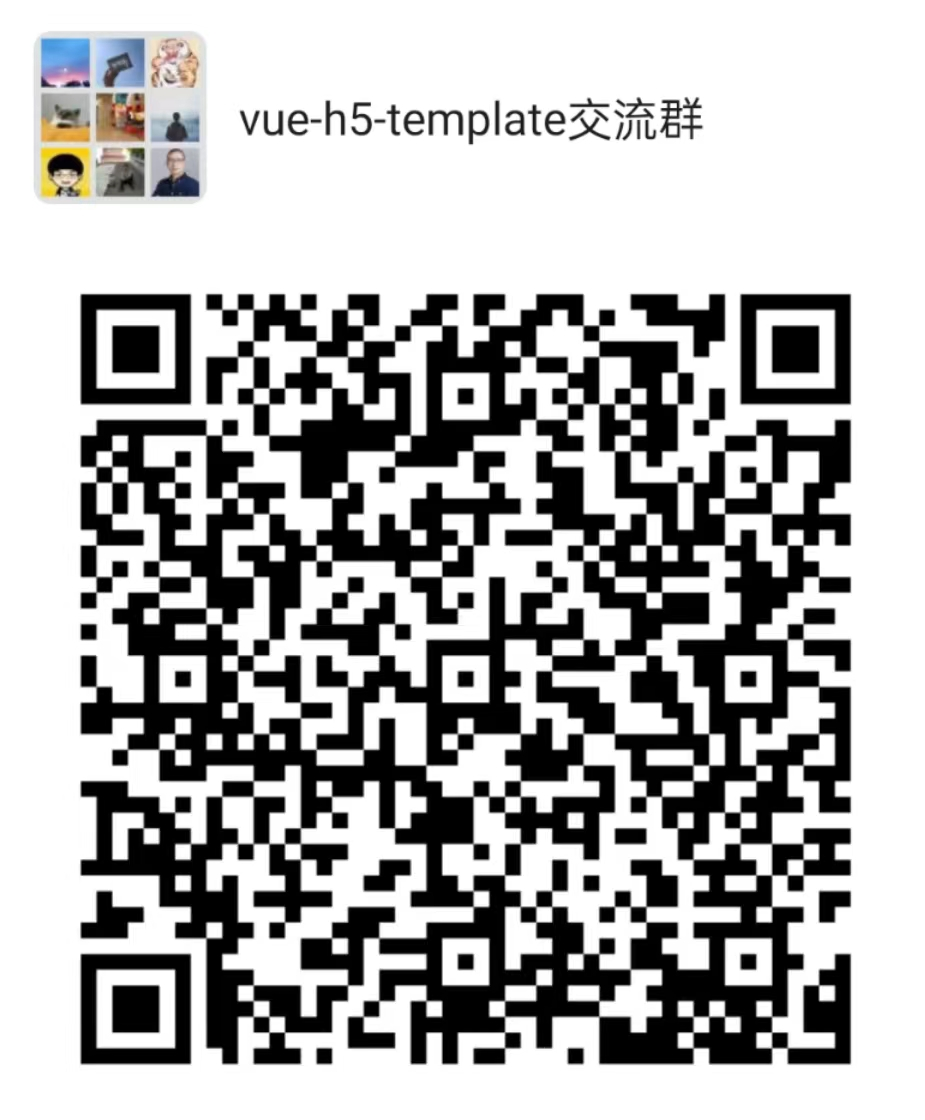
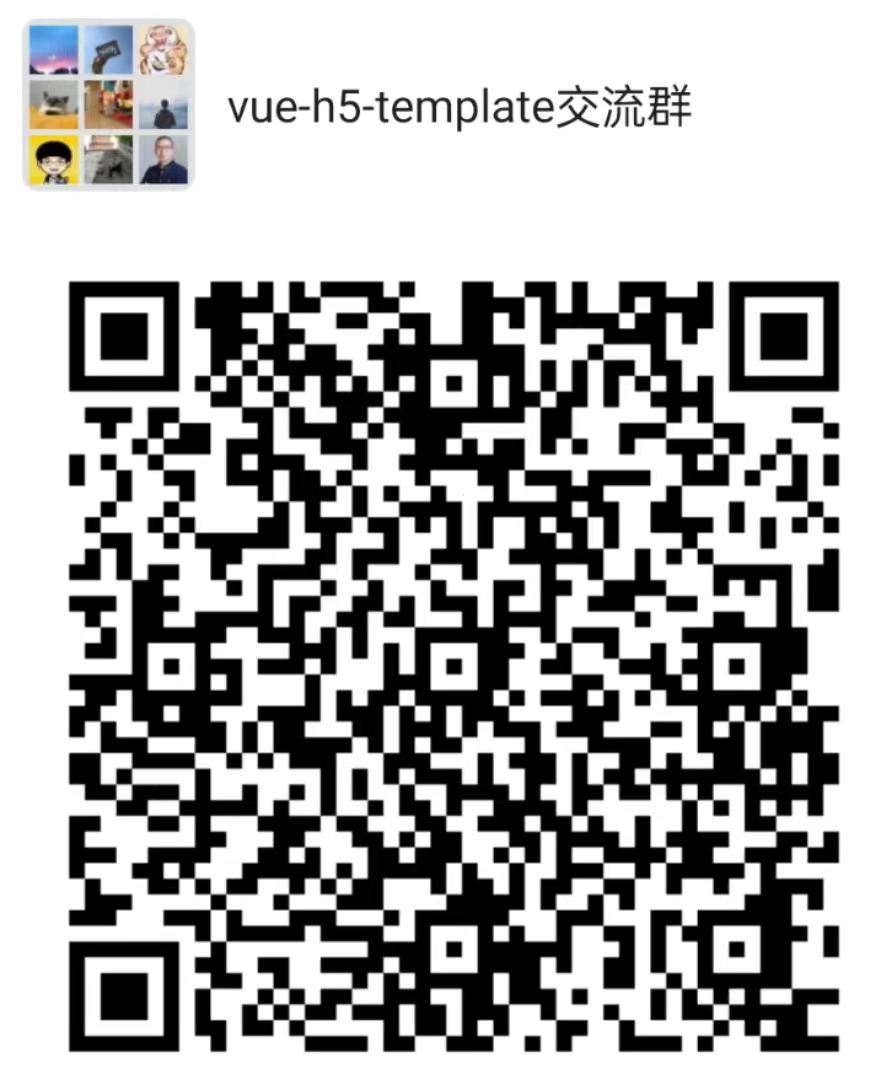
feat: 更新依赖

diff --git a/config/vite/plugins/component.ts b/config/vite/plugins/component.ts
@@ -3,7 +3,7 @@
  * @description 按需加载，自动引入组件
  */
 import Components from 'unplugin-vue-components/vite';
-import { VueUseComponentsResolver } from 'unplugin-vue-components/resolvers';
+import { VueUseComponentsResolver, VantResolver } from 'unplugin-vue-components/resolvers';
 export const AutoRegistryComponents = () => {
   return Components({
     // dirs: ['src/components'],
@@ -15,6 +15,6 @@ export const AutoRegistryComponents = () => {
     directives: true,
     include: [/\.vue$/, /\.vue\?vue/, /\.md$/],
     exclude: [/[\\/]node_modules[\\/]/, /[\\/]\.git[\\/]/, /[\\/]\.nuxt[\\/]/],
-    resolvers: [VueUseComponentsResolver()],
+    resolvers: [VueUseComponentsResolver(), VantResolver()],
   });
 };

diff --git a/types/components.d.ts b/types/components.d.ts
@@ -1,7 +1,9 @@
 // generated by unplugin-vue-components
 // We suggest you to commit this file into source control
-// Read more: https://github.com/vuejs/vue-next/pull/3399
+// Read more: https://github.com/vuejs/core/pull/3399
 import '@vue/runtime-core';
+
+export {};
 
 declare module '@vue/runtime-core' {
   export interface GlobalComponents {
@@ -10,5 +12,3 @@ declare module '@vue/runtime-core' {
     TitleBar: typeof import('./../src/components/TitleBar/index.vue')['default'];
   }
 }
-
-export {};

diff --git a/README.md b/README.md
@@ -12,7 +12,7 @@
 
 ### Node 版本要求
 
-推荐你使用 nodejs 14+版本，毕竟技术日新月异。你可以使用 [nvm](https://github.com/nvm-sh/nvm) 或 [nvm-windows](https://github.com/coreybutler/nvm-windows) 在同一台电脑中管理多个 Node 版本。
+推荐你使用 nodejs 14+的版本，毕竟技术日新月异。你可以使用 [nvm](https://github.com/nvm-sh/nvm) 或 [nvm-windows](https://github.com/coreybutler/nvm-windows) 在同一台电脑中管理多个 Node 版本。
 
 本示例 Node.js 14.19.0
 
@@ -447,7 +447,7 @@ server: {
 </p>
 
 <p>
-  <img src="./public/group.png" width="256" style="display:inline; ">
+  <img src="./public/group.jpg" width="256" style="display:inline; ">
 </p>
  
 如果对你有帮助送我一颗珍贵的小星星（づ￣3￣）づ╭❤～
